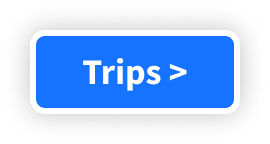
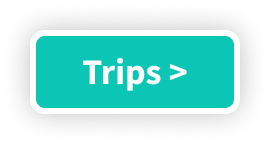
trips redesign

diff --git a/packages/webapp/src/app/trips.component.html b/packages/webapp/src/app/trips.component.html
@@ -1,5 +1,130 @@
-<h1>Trips!</h1>
-<span style="display: block;">{{tripStatus.kilometers | kilometerDisplay}}</span>
-<span style="display: block;">{{tripStatus.duration | timeFormatDisplay}}</span>
+<div id="trip">
+    <div id="überblick">
+      <div id="services">Current</div>
+      <div id="rates">Cost</div>
+      </div>
+
+<div id="anbieter">
+<div id="anbietername">
+Anbietername
+<br>
+<div id="anbieternameinfo">
+Departure 17:25 Uhr
+</div>
+</div>
+<div id="anbietertarif">
 <span style="display: block;">{{tripStatus.price | priceDisplay}}</span>
-<span style="display: block; font-size: 8px; color: lightgray">{{tripStatus | json}}</span>
+<div id="anbieternameinfo">
+<span style="display: inline;">{{tripStatus.kilometers | kilometerDisplay}}</span>
+ |
+<span style="display: inline;">{{tripStatus.duration | timeFormatDisplay}}</span>
+</div>
+</div>
+</div>
+
+<div>
+<img src="/assets/line.png" width="265">
+</div>
+
+
+
+
+<!-- <span style="display: block; font-size: 8px; color: lightgray">{{tripStatus | json}}</span> -->
+
+   <!--  <div v-for="anbieter in anbieterList"><anbieter :anbietername="anbieter.anbietername" :tarif="anbieter.tarif" :tarifbeschreibung="anbieter.tarifbeschreibung"
+    :anbieterbeschreibung="anbieter.anbieterbeschreibung"/></div> -->
+  <div id="fooder">
+  <a [routerLink]="['/oben']" style="text-decoration: none;">
+      <img src="/assets/trips.png" width="90">
+  </a>
+  </div>
+  </div>
+
+<!-- <script>
+import anbieter from "./anbietertrips.vue";
+export default {
+  props: {
+    msg: String
+  },
+  components: {
+    anbieter
+  },
+  data() {
+    return{
+    anbieterList: [
+      { anbietername: "Stuttgart Main Station", anbieterbeschreibung: "next stop, 17:31 Uhr", 
+        tarif: "4,20 €", tarifbeschreibung: "VVS"},
+      { anbietername: "Böblingen", anbieterbeschreibung: "departure, 17:25 Uhr",
+        tarif: "0,20 €", tarifbeschreibung: "per kilometer"}
+    ]
+  }
+ }
+};
+</script> -->
+
+<!-- Add "scoped" attribute to limit CSS to this component only -->
+<style >
+#trip {
+  width: 265px;
+  height: 70px;
+  padding-top: 119px;
+  margin: auto;
+  z-index: 10;
+}
+
+#überblick {
+  display: grid;
+  grid-template-columns: 25% 25%;
+  font-size: 13px;
+  margin-top: -120px;
+}
+#services{
+margin-left: 0px;
+color: #0BC6B4;
+}
+#rates{
+margin-left: 162px;
+text-align: right;
+color: #0BC6B4;
+}
+
+
+#anbieter{
+display: grid;
+grid-template-columns: 50% 50%;
+padding-top: 10px;
+padding-bottom: 5px;
+}
+
+#anbietername{
+font-weight: 1000;
+font-size: 11px;
+margin-top: 10px;
+text-align: left;
+margin-left: 10px;
+}
+
+#anbieternameinfo{
+font-weight: 300;
+font-size: 11px;
+}
+
+#anbietertarif{
+font-weight: 1000;
+font-size: 11px;
+margin-top: 10px;
+text-align: right;
+margin-right: 10px;
+}
+
+#fooder {
+  margin-bottom: 115px;
+  margin-left: 165px;
+  left: 0;
+  position: fixed;
+  bottom: 0;
+  width: 770px;
+}
+
+
+</style>
